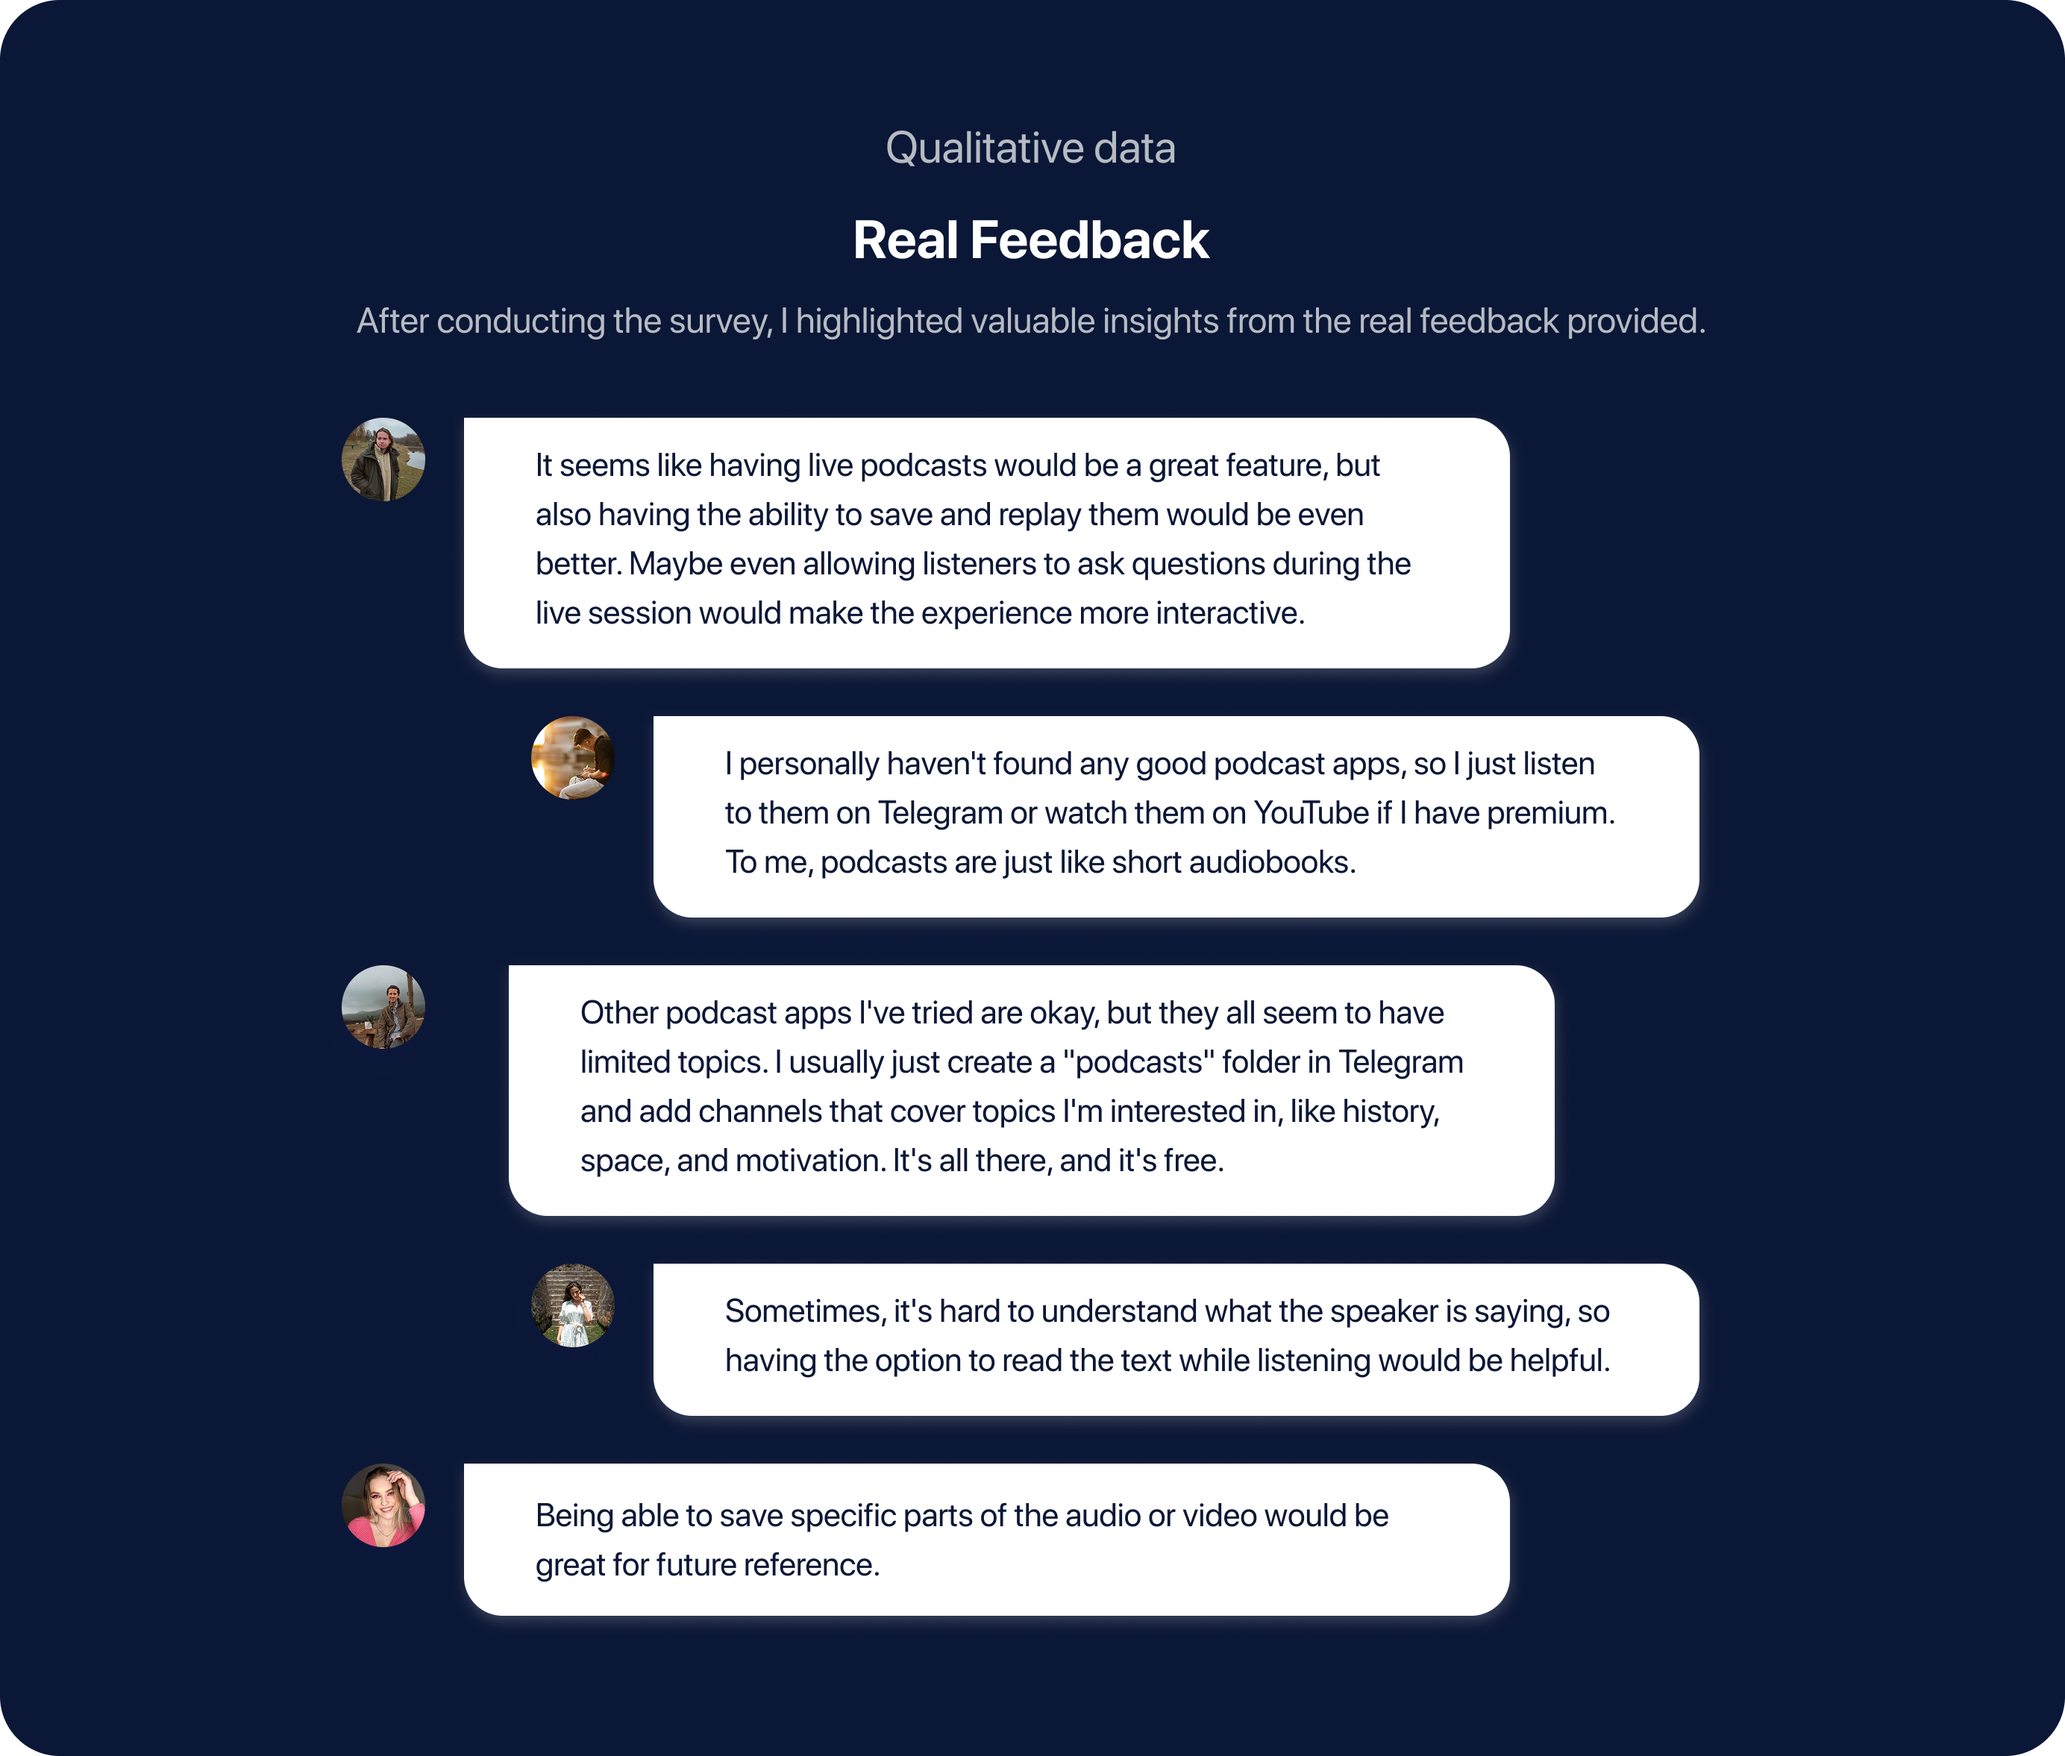
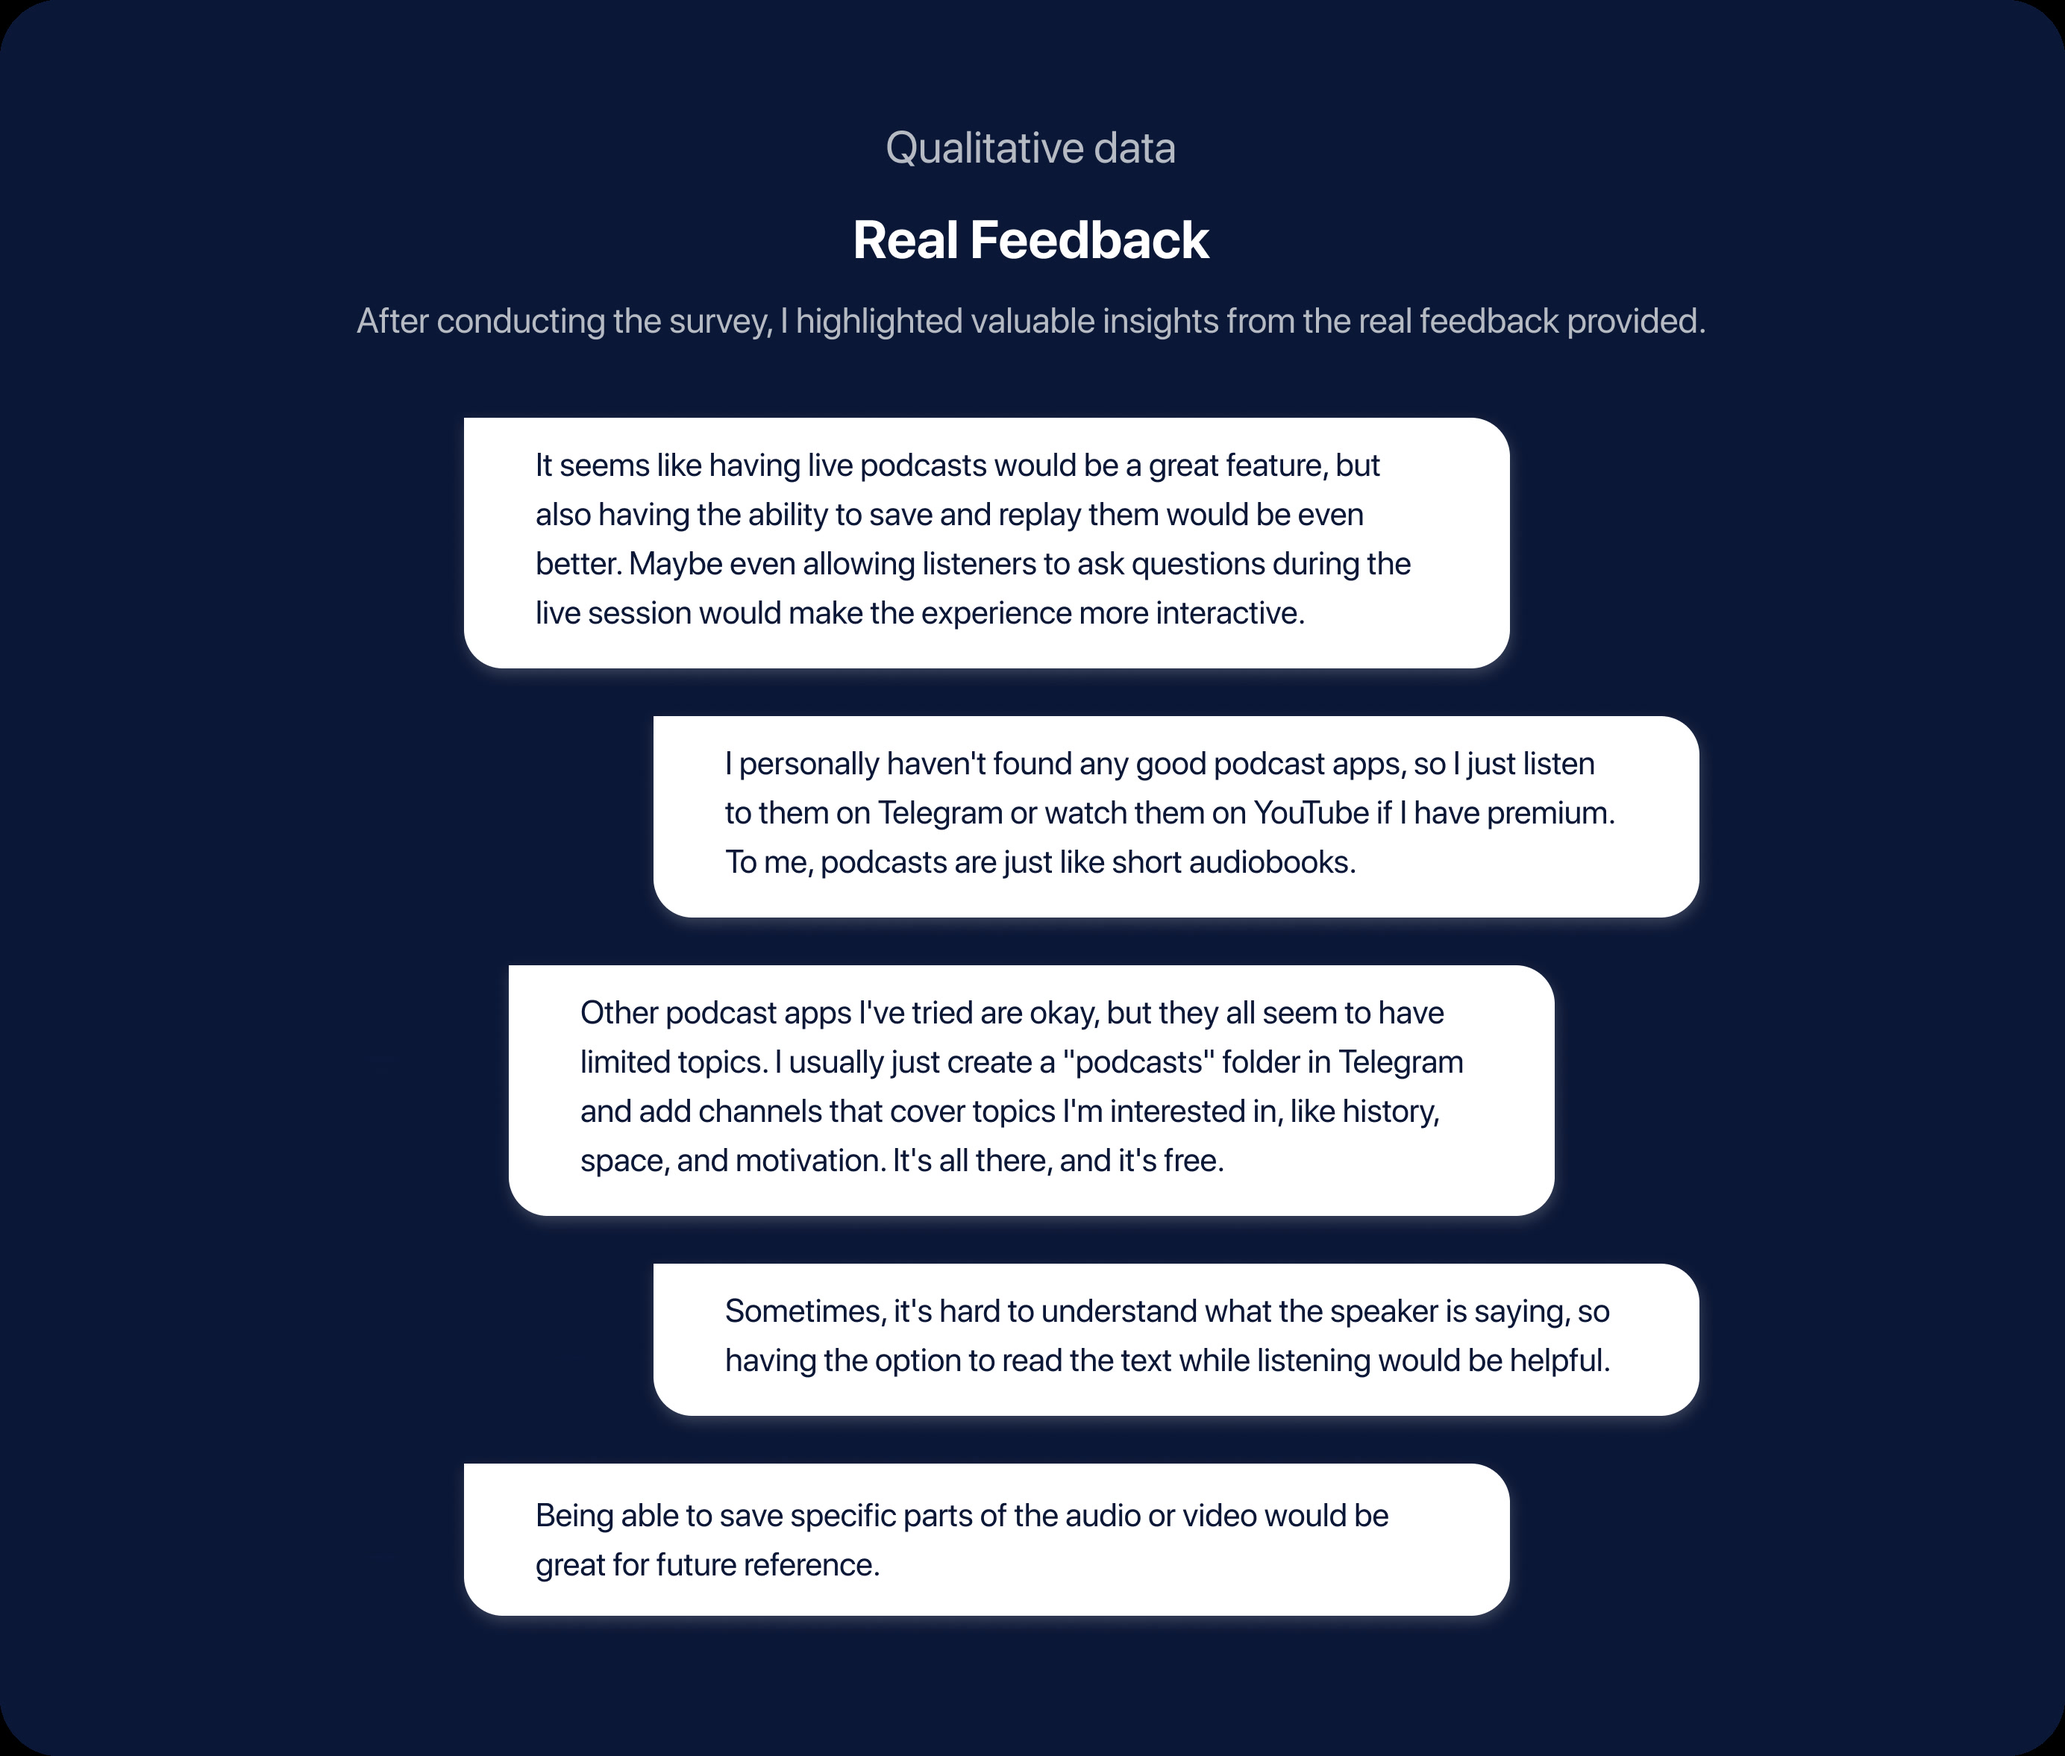
PodReads: restore the Real Feedback image without participant photos
Claude-Session: https://claude.ai/code/session_01SGp7KCCNiKBP937TQpn295

diff --git a/work/podcast-app.html b/work/podcast-app.html
@@ -564,6 +564,10 @@
     </div>
   </section>
 
+  <div class="contained-img reveal-scale">
+    <img src="../assets/images/Slice_5.jpg" alt="Survey feedback quotes" />
+  </div>
+
   
 
   <div class="section-divider"></div>
